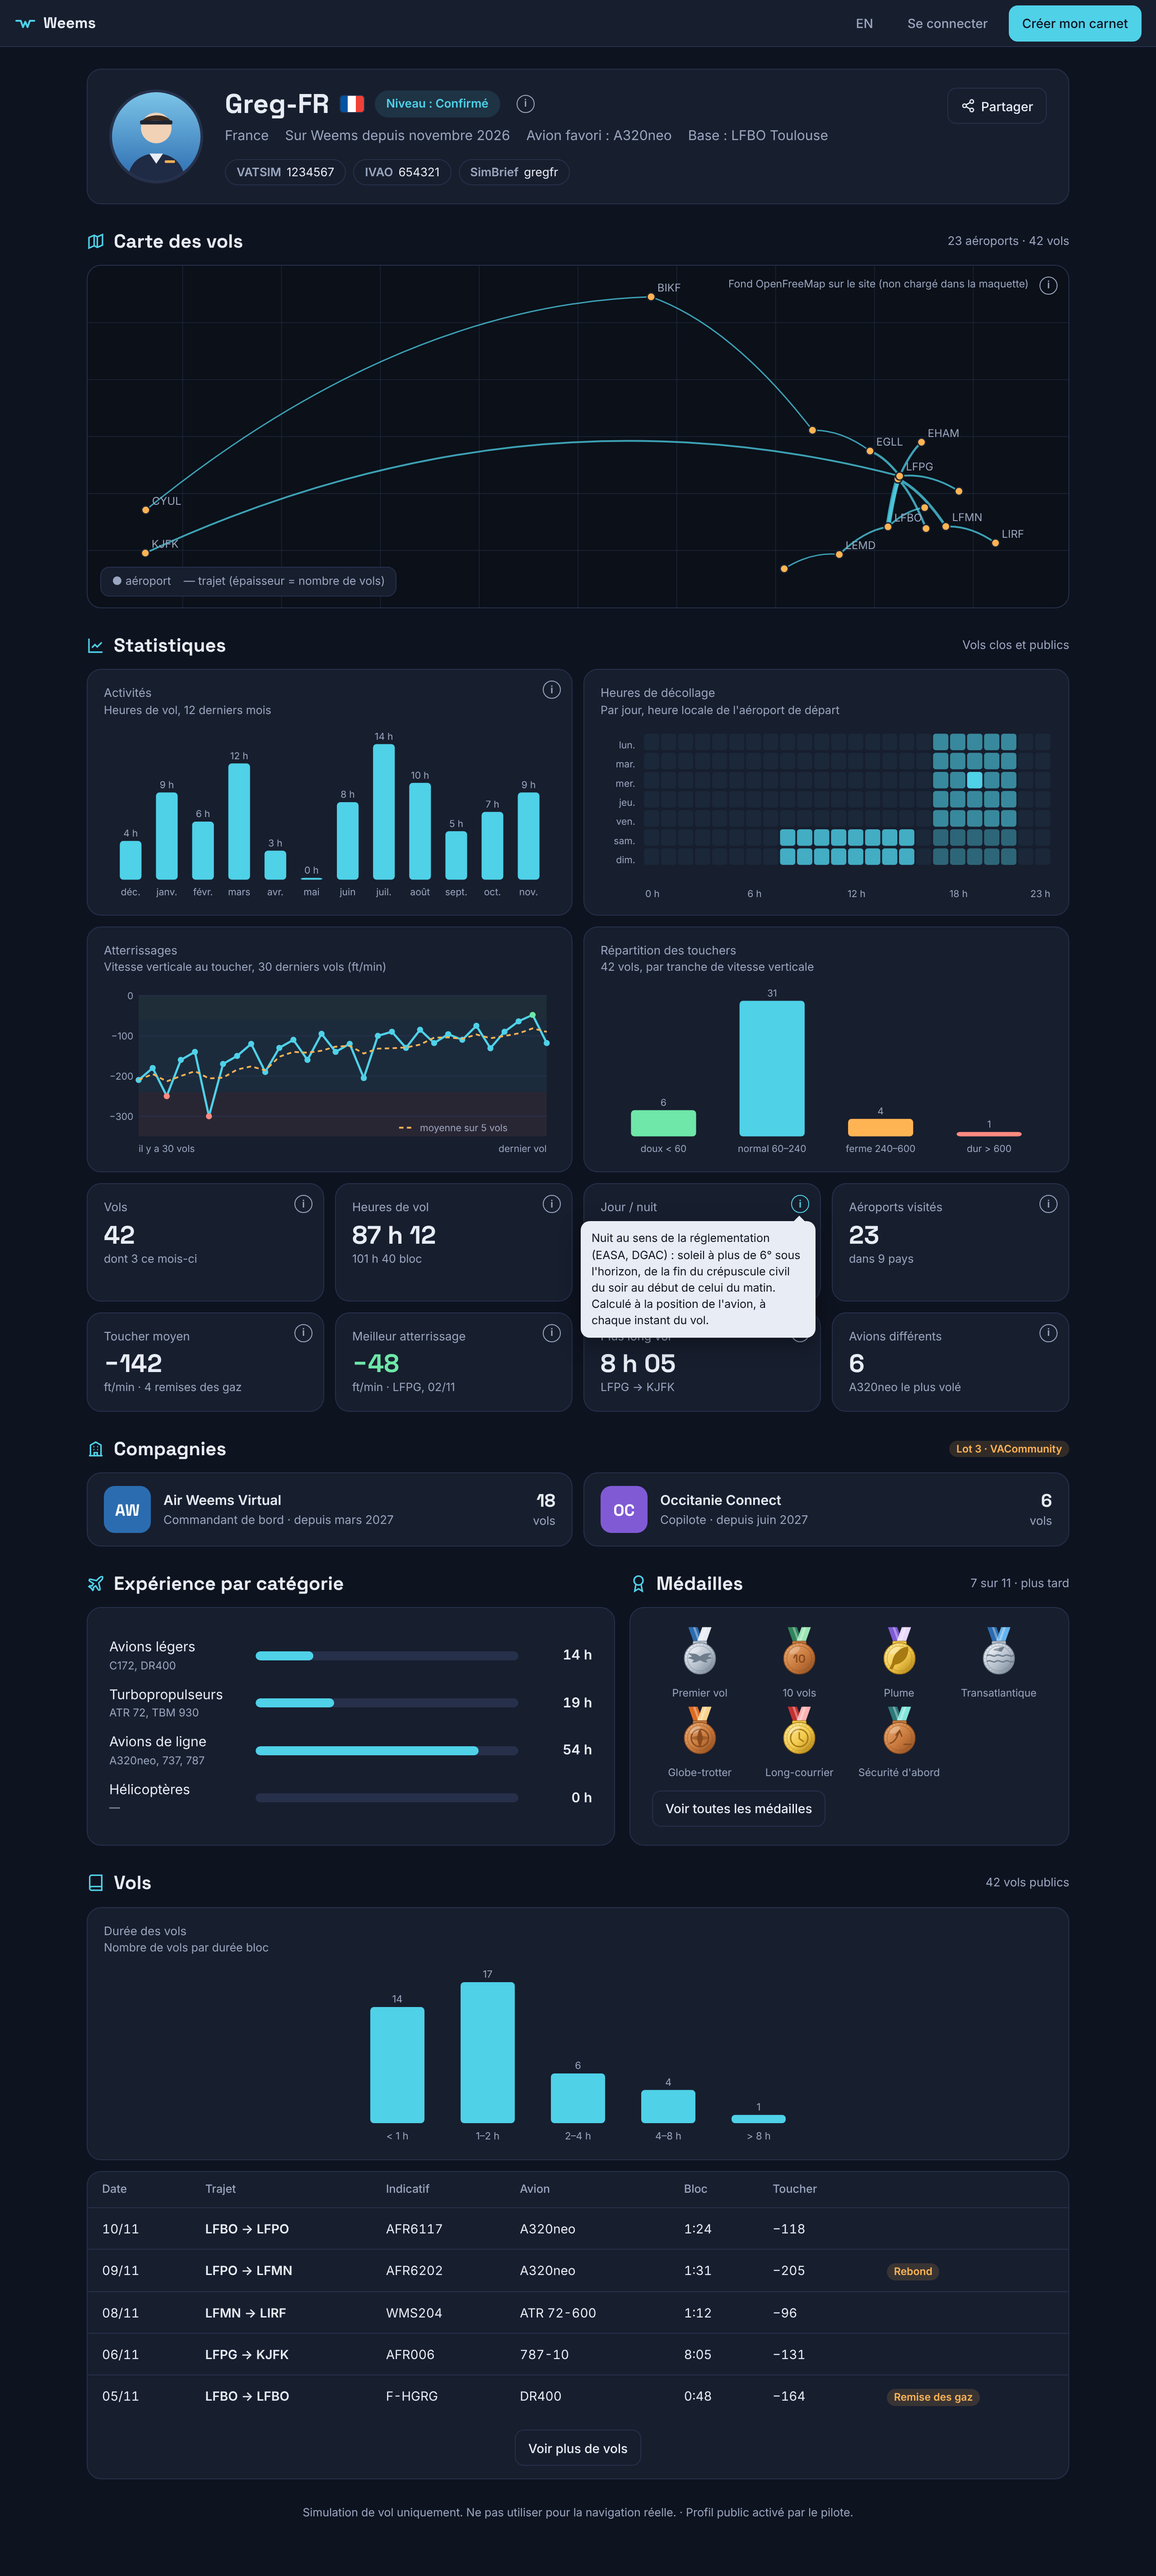
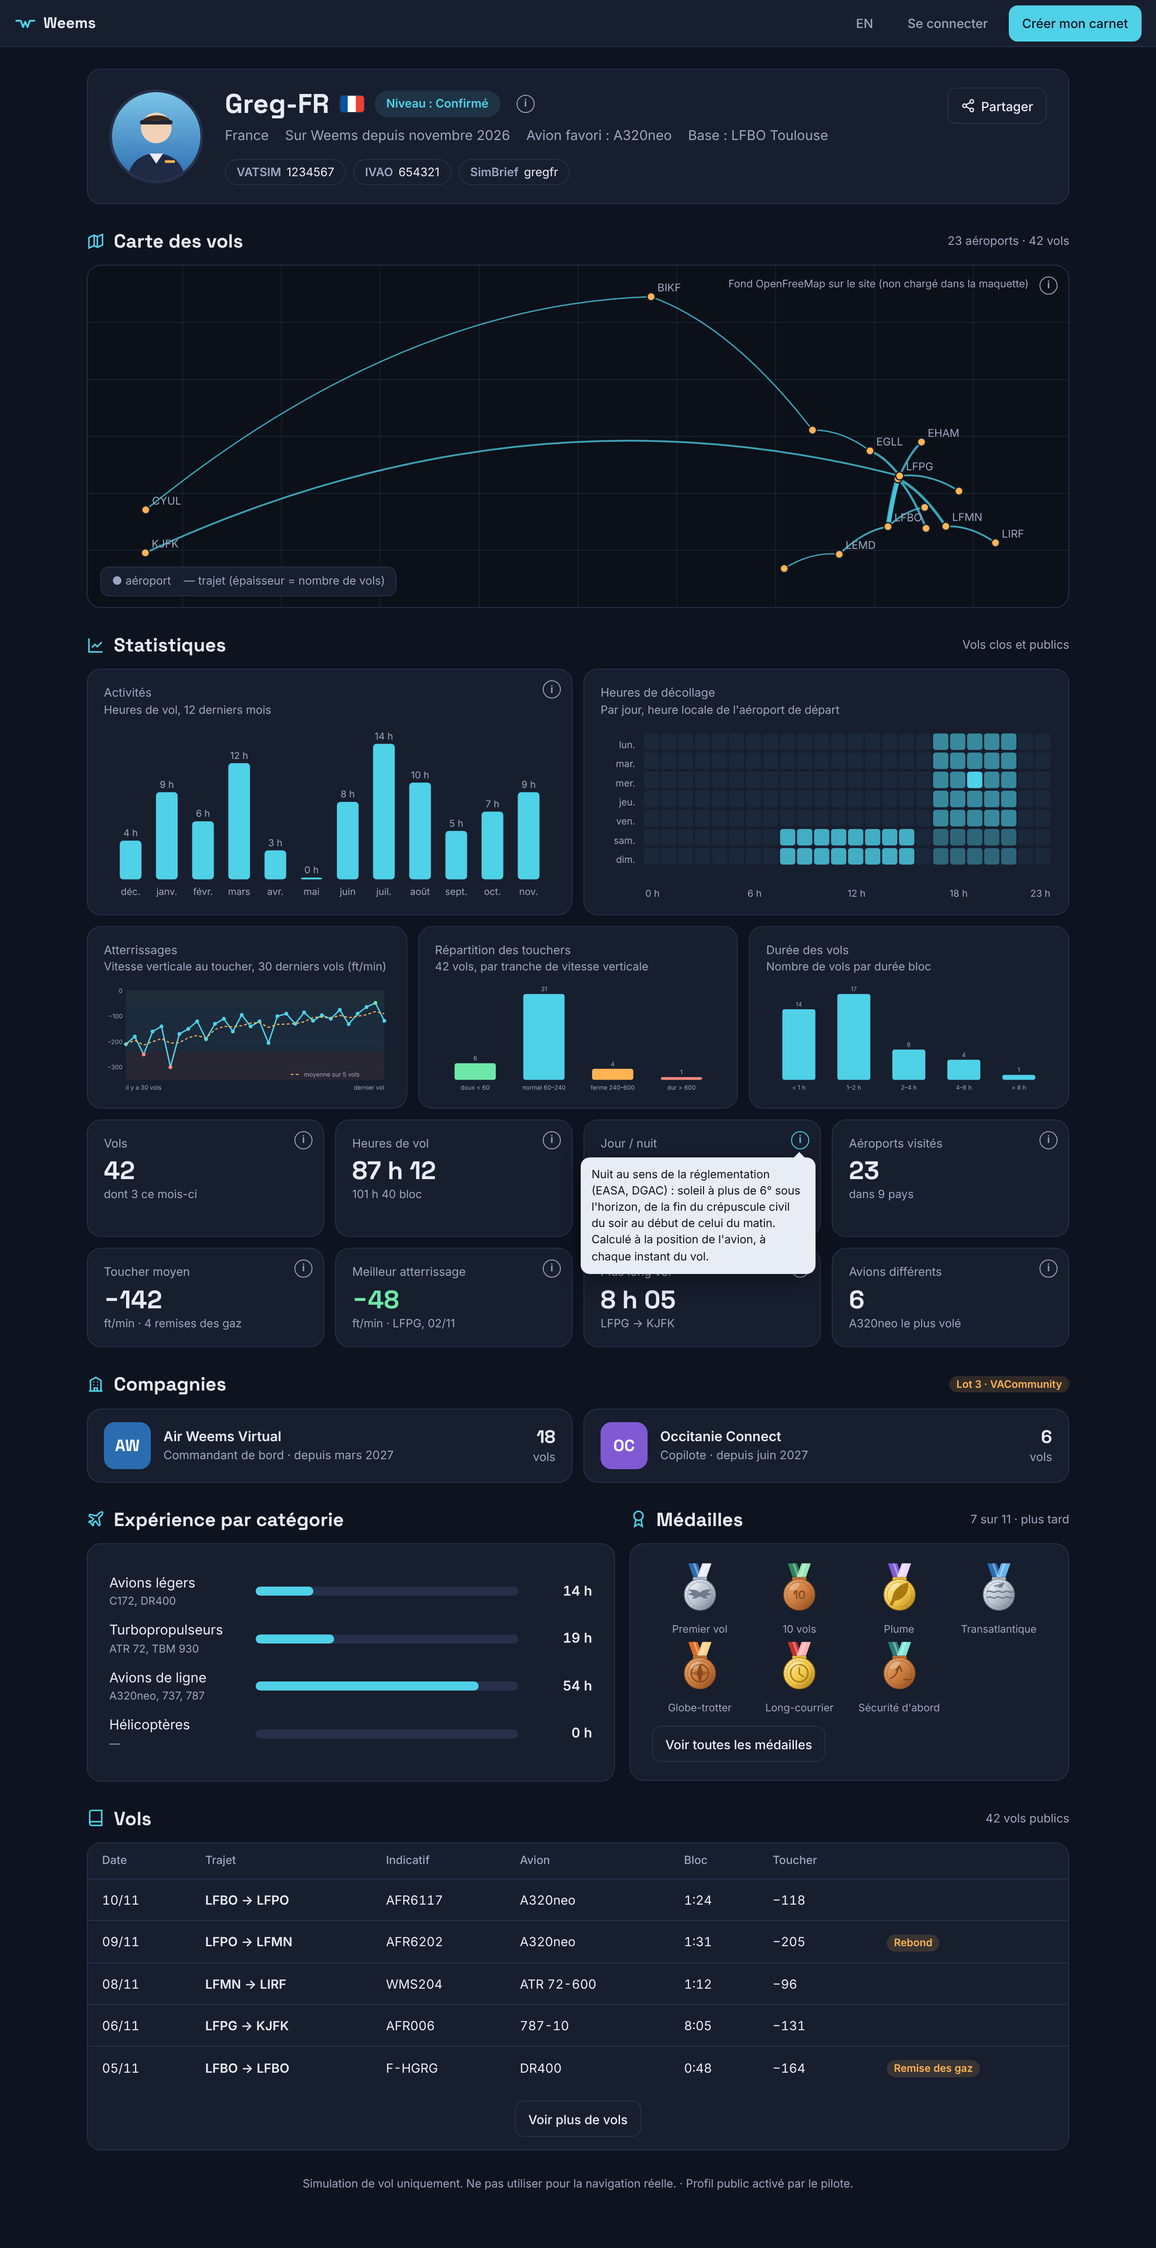
docs(j4): durée des vols à droite de la répartition des touchers
Claude-Session: https://claude.ai/code/session_01N46qzV3MxXmsdYZrydt2jy

diff --git a/docs/cahiers-des-charges/spec-J4-profil-public.md b/docs/cahiers-des-charges/spec-J4-profil-public.md
@@ -62,7 +62,7 @@ Règles :
 
 **Profil** (`/pilots/{handle}`)
 
-Ordre des blocs (validé avec Greg sur la maquette) : en-tête ; carte des vols ; statistiques (quatre graphiques deux par deux en tête de section, puis les tuiles) ; compagnies (lot 3) ; expérience par catégorie et médailles côte à côte (toutes deux plus tard) ; liste des vols, précédée du graphique « Durée des vols » (place provisoire, Greg tranchera).
+Ordre des blocs (validé avec Greg sur la maquette) : en-tête ; carte des vols ; statistiques (en tête de section, Activités et Heures de décollage sur une ligne, puis Atterrissages, Répartition des touchers et Durée des vols sur la suivante ; ensuite les tuiles) ; compagnies (lot 3) ; expérience par catégorie et médailles côte à côte (toutes deux plus tard) ; liste des vols.
 
 - En-tête : photo (initiales à défaut), pseudo, drapeau et nom du pays, niveau déclaré, « sur Weems depuis » (création du compte), avion le plus volé, liens vers les pages VATSIM et IVAO du pilote, bouton « Partager ».
 - Statistiques : nombre de vols, heures de vol (temps en vol) et heures bloc, aéroports différents visités, nombre d'avions différents, taux de chute moyen au toucher et meilleur atterrissage (le plus doux), plus long vol, nombre de remises des gaz, heures de jour et de nuit.
